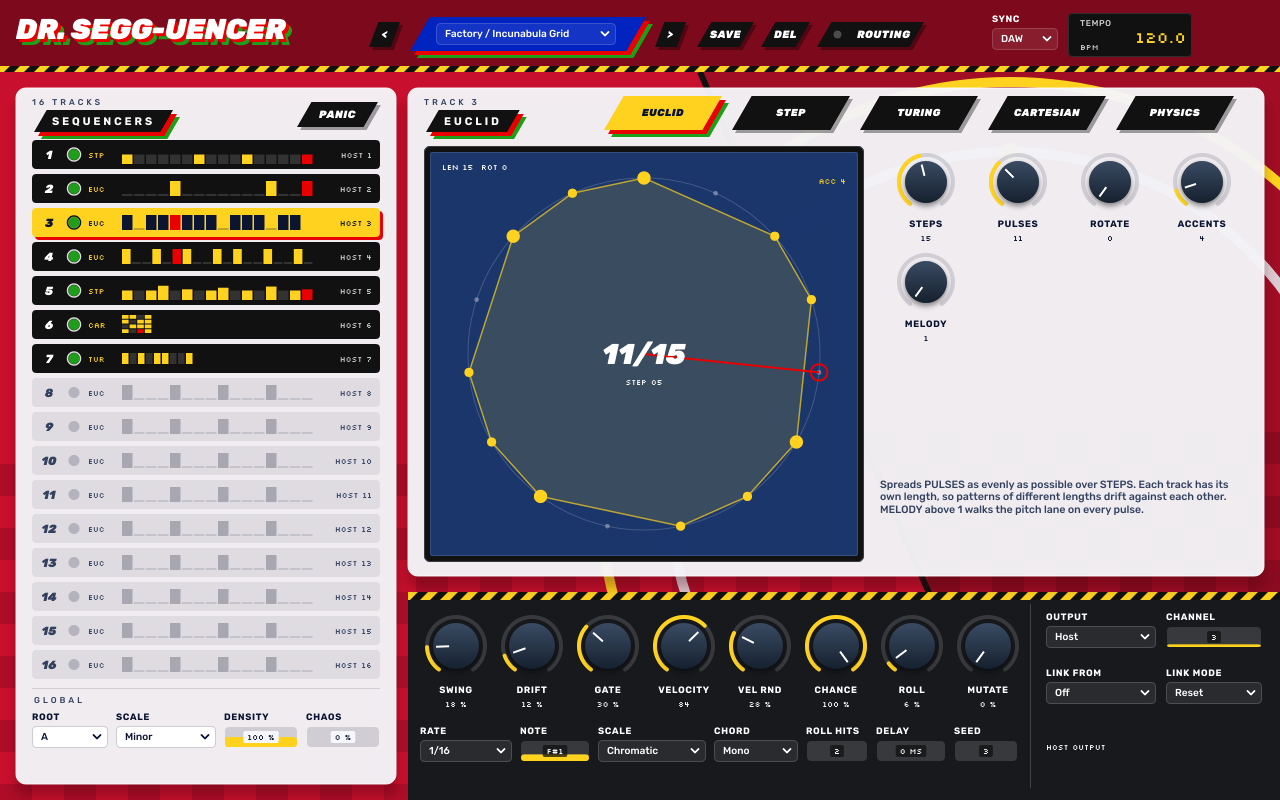
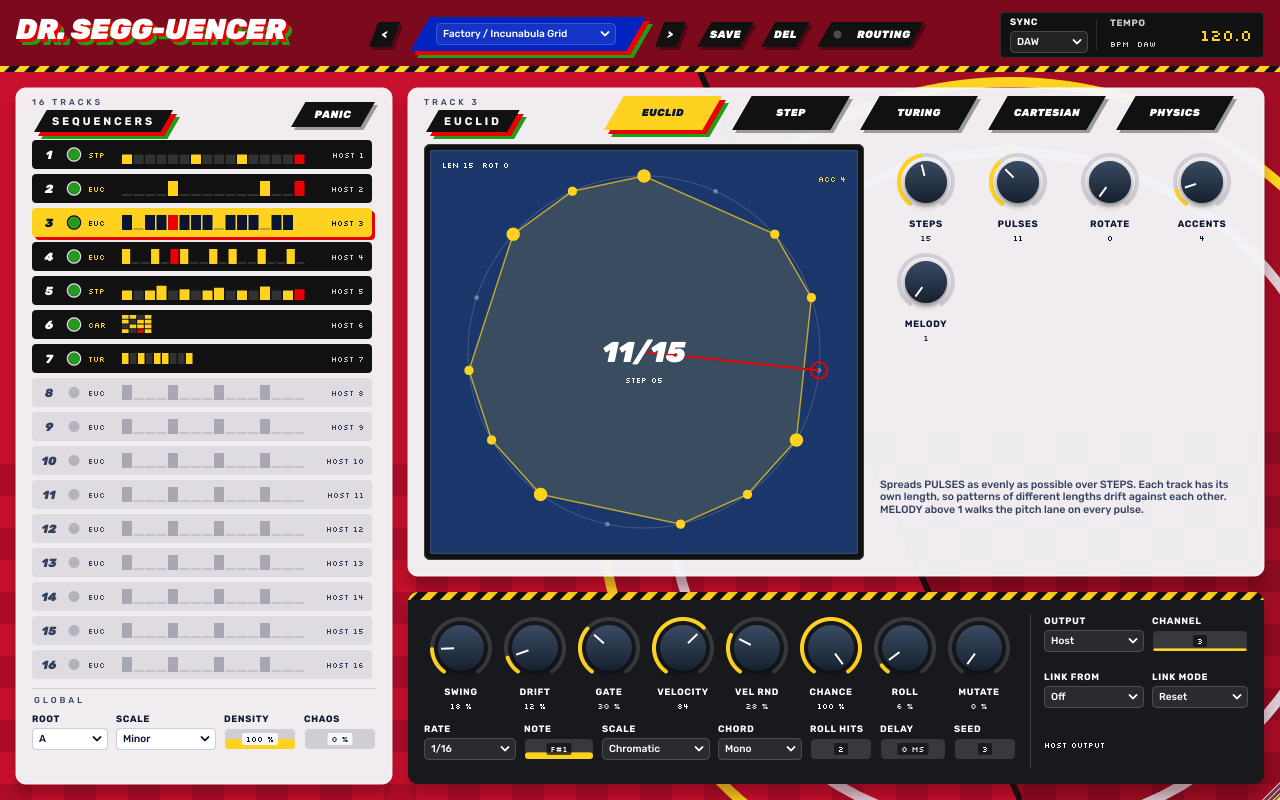
Nuova interfaccia Egg Lab

diff --git a/Source/SeggEditor.h b/Source/SeggEditor.h
@@ -3,10 +3,13 @@
 #include "SeggUI.h"
 #include "Params.h"
 
-class SeggEditor : public juce::AudioProcessorEditor, private juce::Timer
+/** The whole interface, laid out on a fixed 1280 x 800 grid. SeggEditor scales it to the window. */
+class SeggView : public juce::Component, private juce::Timer
 {
 public:
-    explicit SeggEditor (SeggProcessor& p) : AudioProcessorEditor (p), proc (p), list (p), view (p), routing (p)
+    static constexpr int kW = 1280, kH = 800;
+
+    explicit SeggView (SeggProcessor& p) : proc (p), list (p), view (p), routing (p)
     {
         setLookAndFeel (&lnf);
         using K = segg::Control::Kind;
@@ -67,13 +70,14 @@ public:
         routeReset = std::make_unique<segg::Control> (p.state, "greset", "RESET ON PLAY", K::Toggle);
         routeKey = std::make_unique<segg::Control> (p.state, "gkeyin", "MIDI TRANSPOSE", K::Toggle);
         for (auto* ctl : { routeOffset.get(), routeReset.get(), routeKey.get() }) addChildComponent (ctl);
+        for (auto* ctl : { routeReset.get(), routeKey.get() }) ctl->button.getProperties().set ("sgDeck", true);
 
         sendLookAndFeelChange();
-        setSize (1280, 800);
+        setSize (kW, kH);
         selectTrack (0);
         startTimerHz (30);
     }
-    ~SeggEditor() override { setLookAndFeel (nullptr); }
+    ~SeggView() override { setLookAndFeel (nullptr); }
 
     void selectTrack (int t)
     {
@@ -127,37 +131,49 @@ public:
         g.setColour (c::onPlate); g.drawText (name, 16, 9, 340, 40, juce::Justification::centredLeft);
         taggedPlate (g, { 410, 17, 236, 34 }, c::tag);
 
-        auto lcd = juce::Rectangle<float> (1068, 13, 124, 44);
+        // transport console: one black box, every label inside it, flush with the right margin
+        const bool freeRun = proc.state.getRawParameterValue ("gsync")->load() > 0.5f;   // RUN plate sits right of the box
+        auto console = juce::Rectangle<float> (kConsoleX, 12.0f, (freeRun ? kRunX - 12.0f : W - kMargin) - kConsoleX, 46.0f);
         g.setColour (c::plate);
-        g.fillRoundedRectangle (lcd, 4.0f);
+        g.fillRoundedRectangle (console, 4.0f);
         g.setColour (c::onPlate.withAlpha (0.12f));
-        g.drawRoundedRectangle (lcd.reduced (0.5f), 4.0f, 1.0f);
-        g.setColour (c::onPlate.withAlpha (0.8f));
-        g.setFont (medium (10.0f, 0.06f));
-        g.drawText ("TEMPO", 1080, 17, 60, 12, juce::Justification::left);
+        g.drawRoundedRectangle (console.reduced (0.5f), 4.0f, 1.0f);
+        g.fillRect (kConsoleX + 96.0f, 20.0f, 1.0f, 30.0f);
         if (proc.state.getRawParameterValue ("gsync")->load() < 0.5f)
         {   // in DAW sync, the tempo coming from the host
+            g.setColour (c::onPlate.withAlpha (0.8f));
+            g.setFont (bold (11.0f, 0.06f));
+            g.drawText ("TEMPO", (int) kConsoleX + 110, 16, 80, 14, juce::Justification::left);
             g.setFont (pixel (10.0f));
-            g.drawText ("BPM", 1080, 41, 40, 12, juce::Justification::left);
+            g.drawText ("BPM  DAW", (int) kConsoleX + 110, 38, 80, 12, juce::Justification::left);
             g.setColour (c::accent);
             g.setFont (pixel (20.0f));
-            g.drawText (juce::String (proc.uiBpm.load(), 1), 1112, 25, 74, 24, juce::Justification::right);
+            g.drawText (juce::String (proc.uiBpm.load(), 1), (int) (W - kMargin) - 100, 23, 88, 24, juce::Justification::right);
         }
 
         // tracks
-        glassPanel (g, { 16, 88, 380, 696 }, "16 tracks", "Sequencers");
+        // every block sits kMargin from the window edge and kMargin from its neighbours
+        glassPanel (g, { 16, 88, 376, 696 }, "16 tracks", "Sequencers");
         g.setColour (c::ink.withAlpha (0.14f));
-        g.fillRect (32, 688, 348, 1);
+        g.fillRect (32, 688, 344, 1);
         g.setColour (c::inkSoft);
         g.setFont (medium (10.0f, 0.3f));
         g.drawText ("GLOBAL", 34, 694, 120, 12, juce::Justification::left);
 
         // deck with the track's common settings
-        g.setColour (c::modGround);
-        g.fillRect (408, kDeckY, getWidth() - 408, getHeight() - kDeckY);
-        hazard (g, { 408.0f, (float) kDeckY, W - 408.0f, 8.0f });
+        {
+            const auto deck = juce::Rectangle<float> (408.0f, (float) kDeckY, W - 408.0f - kMargin, H - kDeckY - kMargin);
+            juce::Path body;
+            body.addRoundedRectangle (deck, 10.0f);
+            juce::DropShadow (c::panelShadow, 28, { 0, 12 }).drawForPath (g, body);
+            g.setColour (c::modGround);
+            g.fillPath (body);
+            juce::Graphics::ScopedSaveState save (g);
+            g.reduceClipRegion (body);
+            hazard (g, deck.withHeight (8.0f));
+        }
         g.setColour (c::onPlate.withAlpha (0.18f));
-        g.fillRect (1030, kDeckY + 12, 1, getHeight() - kDeckY - 24);
+        g.fillRect (1030, kDeckY + 22, 1, getHeight() - kDeckY - kMargin - 38);
 
         if (routingBtn.getToggleState())
         {
@@ -185,11 +201,11 @@ public:
         if (port == 0) status = "HOST OUTPUT";
         else if (! proc.direct.isSlotLive (port - 1)) { status = "PORT " + juce::String (port) + " NOT ASSIGNED"; g.setColour (segg::c::accent); }
         else status = "PORT " + juce::String (port) + " READY";
-        g.drawText (status, 1046, kDeckY + 148, 216, 14, juce::Justification::left);
+        g.drawText (status, 1044, kDeckY + 146, 204, 14, juce::Justification::left);
         if (! proc.uiPlaying.load())
         {
             g.setColour (segg::c::onPlate.withAlpha (0.7f));
-            g.drawText (proc.state.getRawParameterValue ("gsync")->load() > 0.5f ? "PRESS RUN TO START" : "START THE HOST TRANSPORT", 1046, kDeckY + 168, 216, 14, juce::Justification::left);
+            g.drawText (proc.state.getRawParameterValue ("gsync")->load() > 0.5f ? "PRESS RUN TO START" : "START THE HOST TRANSPORT", 1044, kDeckY + 164, 204, 14, juce::Justification::left);
         }
     }
 
@@ -202,30 +218,31 @@ public:
         saveBtn.setBounds (696, 20, 62, 30);
         delBtn.setBounds (760, 20, 54, 30);
         routingBtn.setBounds (816, 20, 112, 30);
-        at ("gsync", 992, 12, 66, 38);
-        at ("gbpm", 1130, 15, 56, 38);
-        at ("grun", 1198, 20, 66, 30);
-        at ("groot", 32, 710, 76, 40);
-        at ("gscale", 116, 710, 100, 40);
-        at ("gdensity", 224, 710, 74, 38);
-        at ("gchaos", 306, 710, 74, 38);
+        at ("gsync", (int) kConsoleX + 10, 15, 78, 40);
+        at ("gbpm", (int) kConsoleX + 108, 15, 62, 40);
+        at ("grun", (int) kRunX, 20, 87, 32);
+        at ("groot", 32, 712, 76, 40);
+        at ("gscale", 116, 712, 100, 40);
+        at ("gdensity", 224, 712, 72, 38);
+        at ("gchaos", 304, 712, 72, 38);
 
-        list.setBounds (32, 140, 352, 16 * segg::TrackList::kRowH);
-        panicBtn.setBounds (296, 100, 86, 30);
-        view.setBounds (424, 146, 440, 416);
-        routing.setBounds (424, 98, 824, 470);
+        list.setBounds (32, 140, 344, 16 * segg::TrackList::kRowH);
+        panicBtn.setBounds (290, 100, 89, 30);
+        view.setBounds (424, 144, 440, 416);
+        routing.setBounds (424, 98, 824, 462);
         for (int t = 0; t < segg::kNumTypes; ++t) tabs[t]->setBounds (604 + t * 128, 96, 126, 42);
 
-        routeOffset->setBounds (1046, 612, 214, 38);
-        routeReset->setBounds (1046, 662, 214, 32);
-        routeKey->setBounds (1046, 702, 214, 32);
+        routeOffset->setBounds (1044, kDeckY + 22, 204, 38);
+        routeReset->setBounds (1044, kDeckY + 72, 207, 32);
+        routeKey->setBounds (1044, kDeckY + 112, 207, 32);
         layoutTrackControls();
     }
 
     segg::Control* getTrackControl (segg::P p) { for (auto& e : trackControls) if (e.param == p) return e.control; return nullptr; }
 
 private:
-    static constexpr int kDeckY = 592, kHeaderH = 72;
+    static constexpr int kDeckY = 592, kHeaderH = 72, kMargin = 16;
+    static constexpr float kConsoleX = 1000.0f, kRunX = 1180.0f;
 
     struct Entry { segg::P param; segg::Control* control; int group; };   // group: 0 = common, 1 + type = that sequencer
 
@@ -275,14 +292,14 @@ private:
     {
         using namespace segg;
         auto place = [this] (P p, int x, int y, int w, int h) { if (auto* c = getTrackControl (p)) c->setBounds (x, y, w, h); };
-        const int row1 = kDeckY + 18, row2 = kDeckY + 132;
+        const int row1 = kDeckY + 20, row2 = kDeckY + 130, row3 = kDeckY + 22;
         const P knobs[8] = { pSwing, pDrift, pGate, pVel, pVrand, pProb, pRoll, pMutate };
-        for (int i = 0; i < 8; ++i) place (knobs[i], 418 + i * 76, row1, 76, 100);
-        place (pRate, 420, row2, 92, 40);    place (pNote, 520, row2, 70, 38);   place (pScale, 598, row2, 108, 40);
-        place (pChord, 714, row2, 84, 40);   place (pRolln, 806, row2, 62, 38);  place (pDelay, 876, row2, 70, 38);
-        place (pSeed, 954, row2, 64, 38);
-        place (pPort, 1046, row1, 110, 40);  place (pCh, 1166, row1, 96, 38);
-        place (pLsrc, 1046, row1 + 56, 110, 40); place (pLmode, 1166, row1 + 56, 96, 40);
+        for (int i = 0; i < 8; ++i) place (knobs[i], 424 + i * 74, row1, 74, 100);
+        place (pRate, 424, row2, 92, 40);    place (pNote, 524, row2, 70, 38);   place (pScale, 602, row2, 108, 40);
+        place (pChord, 718, row2, 84, 40);   place (pRolln, 810, row2, 62, 38);  place (pDelay, 880, row2, 66, 38);
+        place (pSeed, 954, row2, 62, 38);
+        place (pPort, 1044, row3, 100, 40);  place (pCh, 1152, row3, 96, 38);
+        place (pLsrc, 1044, row3 + 56, 100, 40); place (pLmode, 1152, row3 + 56, 96, 40);
 
         // sequencer controls beside the well: knobs on a 4-column grid, then menus and switches two by two
         auto isKnob = [this] (P p) {
@@ -348,7 +365,7 @@ private:
             updateVisibility();
             if (routing.isVisible()) routing.repaint();
             repaint (1040, kDeckY + 140, 240, 50);
-            if (const auto bpm = proc.uiBpm.load(); bpm != bpmShown) { bpmShown = bpm; repaint (1064, 8, 134, 54); }
+            if (const auto bpm = proc.uiBpm.load(); bpm != bpmShown) { bpmShown = bpm; repaint ((int) kConsoleX, 8, 1280 - (int) kConsoleX, 54); }
             if (presetBox.getSelectedItemIndex() != proc.presets.getCurrent()) refreshPresets();
         }
     }
@@ -375,5 +392,46 @@ private:
     int track = 0, slowTick = 0, lastType = -1;
     bool freeShown = false;
     float bpmShown = 0.0f;
+    JUCE_DECLARE_NON_COPYABLE_WITH_LEAK_DETECTOR (SeggView)
+};
+
+/** Resizable window with the proportions locked: the view is drawn as vectors at the window's own scale,
+    so it stays sharp at any size. The size is saved with the session. */
+class SeggEditor : public juce::AudioProcessorEditor
+{
+public:
+    static constexpr int kW = SeggView::kW, kH = SeggView::kH;
+    static constexpr double kMinScale = 0.6, kMaxScale = 2.0;
+
+    explicit SeggEditor (SeggProcessor& p) : AudioProcessorEditor (p), proc (p), ui (p)
+    {
+        addAndMakeVisible (ui);
+        ui.setBounds (0, 0, kW, kH);
+        setResizable (true, true);
+        setResizeLimits (juce::roundToInt (kW * kMinScale), juce::roundToInt (kH * kMinScale),
+                         juce::roundToInt (kW * kMaxScale), juce::roundToInt (kH * kMaxScale));
+        getConstrainer()->setFixedAspectRatio ((double) kW / (double) kH);
+        const double s = juce::jlimit (kMinScale, kMaxScale, (double) p.uiScale.load());
+        setSize (juce::roundToInt (kW * s), juce::roundToInt (kH * s));
+    }
+
+    void resized() override
+    {
+        const float s = (float) getWidth() / (float) kW;
+        ui.setTransform (juce::AffineTransform::scale (s));
+        proc.uiScale = s;
+    }
+
+    void paint (juce::Graphics& g) override { g.fillAll (segg::c::ground); }
+
+    // used by the headless tests
+    void selectTrack (int t)          { ui.selectTrack (t); }
+    void showRouting (bool on)        { ui.showRouting (on); }
+    void setLaneForSnapshot (int l)   { ui.setLaneForSnapshot (l); }
+    void tickForSnapshot()            { ui.tickForSnapshot(); }
+
+private:
+    SeggProcessor& proc;
+    SeggView ui;
     JUCE_DECLARE_NON_COPYABLE_WITH_LEAK_DETECTOR (SeggEditor)
 };

diff --git a/Tests/TestMain.cpp b/Tests/TestMain.cpp
@@ -1,6 +1,7 @@
 // DR. SEGG-UENCER headless tests: drive the processor with a fake host transport and check the MIDI it plays.
 // Run:  DrSeggUencerTests                        -> unit tests (exit code 1 on failure)
-//       DrSeggUencerTests --snap file track [page] -> render the editor to a PNG, track 1-16, page 0 = tracks, 1 = routing
+//       DrSeggUencerTests --snap file track [page] [preset] [scale] -> render the editor to a PNG, track 1-16,
+//                                     page 0 = tracks, 1 = routing, 10+ = step lane; scale = window size (1 = 1280 x 800)
 #include <juce_audio_processors/juce_audio_processors.h>
 #include "SeggProcessor.h"
 #include "SeggEditor.h"
@@ -695,14 +696,15 @@ static void testSpeed()
     CHECK (r.p.engine.numPending() < Engine::kPoolSize, "event pool never fills up");
 }
 
-static void runSnap (const juce::String& path, int track, int page, int preset);
+static void runSnap (const juce::String& path, int track, int page, int preset, float scale);
 
 int main (int argc, char** argv)
 {
     if (argc > 1 && juce::String (argv[1]) == "--snap")
     {
         runSnap (argc > 2 ? juce::String (argv[2]) : juce::String ("snap_segg.png"), argc > 3 ? juce::String (argv[3]).getIntValue() : 1,
-                 argc > 4 ? juce::String (argv[4]).getIntValue() : 0, argc > 5 ? juce::String (argv[5]).getIntValue() : 2);
+                 argc > 4 ? juce::String (argv[4]).getIntValue() : 0, argc > 5 ? juce::String (argv[5]).getIntValue() : 2,
+                 argc > 6 ? juce::String (argv[6]).getFloatValue() : 1.0f);
         return 0;
     }
     juce::ScopedJuceInitialiser_GUI init;
@@ -726,7 +728,7 @@ int main (int argc, char** argv)
     return failures == 0 ? 0 : 1;
 }
 
-static void runSnap (const juce::String& path, int track, int page, int preset)
+static void runSnap (const juce::String& path, int track, int page, int preset, float scale)
 {
     juce::ScopedJuceInitialiser_GUI init;
     {
@@ -741,7 +743,7 @@ static void runSnap (const juce::String& path, int track, int page, int preset)
             if (page >= 10) oe->setLaneForSnapshot (page - 10);
             oe->tickForSnapshot();
         }
-        ed->setBounds (0, 0, 1280, 800);
+        ed->setSize (juce::roundToInt (1280 * scale), juce::roundToInt (800 * scale));
         auto img = ed->createComponentSnapshot (ed->getLocalBounds(), true, 1.0f);
         juce::File f (juce::File::getCurrentWorkingDirectory().getChildFile (path));
         f.deleteFile();

diff --git a/Source/SeggUI.h b/Source/SeggUI.h
@@ -61,7 +61,9 @@ inline juce::Font face (const juce::Typeface::Ptr& t, float size, float tracking
 inline juce::Font medium (float size, float tracking = 0.0f) { return face (Fonts::get().medium, size, tracking); }
 inline juce::Font bold (float size, float tracking = 0.0f)   { return face (Fonts::get().bold, size, tracking); }
 inline juce::Font black (float size, float tracking = 0.0f)  { return face (Fonts::get().black, size, tracking); }
-inline juce::Font pixel (float size)                         { return face (Fonts::get().pixel, size); }
+// Silkscreen draws on a grid of 1/8 em and JUCE sizes a font by ascent + descent (1.28 em): x 1.024 puts every
+// font pixel on exactly one (10) or two (20) screen pixels, so the readouts stay sharp instead of smeared.
+inline juce::Font pixel (float size)                         { return face (Fonts::get().pixel, size * 1.024f); }
 
 /** A rectangle skewed by -30 degrees: the plate every button, tab and tag is drawn on. */
 inline juce::Path platePath (juce::Rectangle<float> r)
@@ -267,7 +269,8 @@ public:
         auto p = platePath (r);
         g.setColour (juce::Colour (0x59000000));
         g.fillPath (p, juce::AffineTransform::translation (3, 3));
-        juce::Colour fill = c::plate;
+        // on the black deck an off plate would vanish: lift it a step
+        juce::Colour fill = b.getProperties()["sgDeck"] ? juce::Colour (0xff2c3038) : c::plate;
         if (on) fill = rec ? c::signal : c::accent;
         else if (down) fill = c::tag.darker (0.3f);
         else if (over) fill = c::tag;
@@ -297,6 +300,7 @@ public:
     {
         if (box.getWidth() < 62) { label.setBounds (1, 1, box.getWidth() - 2, box.getHeight() - 2); label.setJustificationType (juce::Justification::centred); }
         else { label.setBounds (4, 1, box.getWidth() - 22, box.getHeight() - 2); label.setJustificationType (juce::Justification::centredLeft); }
+        label.setBorderSize ({ 0, 3, 0, 2 });
         label.setFont (getComboBoxFont (box));
         label.setColour (juce::Label::textColourId, isOnDark (box) ? c::onPlate : c::ink);
         label.setMinimumHorizontalScale (0.7f);

diff --git a/Source/SeggProcessor.cpp b/Source/SeggProcessor.cpp
@@ -307,6 +307,7 @@ void SeggProcessor::getStateInformation (juce::MemoryBlock& dest)
     {
         xml->addChildElement (portsToTree().createXml().release());
         xml->setAttribute ("presetIndex", presets.getCurrent());
+        xml->setAttribute ("uiScale", (double) uiScale.load());
         copyXmlToBinary (*xml, dest);
     }
 }
@@ -319,6 +320,7 @@ void SeggProcessor::setStateInformation (const void* data, int size)
         {
             if (auto* ports = xml->getChildByName ("PORTS")) portsFromTree (juce::ValueTree::fromXml (*ports));
             presets.markCurrent (xml->getIntAttribute ("presetIndex", 0));
+            uiScale = (float) juce::jlimit (0.6, 2.0, xml->getDoubleAttribute ("uiScale", 1.0));
         }
     }
 }

diff --git a/Source/SeggProcessor.h b/Source/SeggProcessor.h
@@ -70,6 +70,7 @@ public:
 
     std::atomic<bool> uiPlaying { false };
     std::atomic<float> uiBpm { 120.0f };
+    std::atomic<float> uiScale { 1.0f };   // editor size, saved with the session
 
     static juce::AudioProcessorValueTreeState::ParameterLayout createLayout();
 

diff --git a/CHANGELOG.md b/CHANGELOG.md
@@ -1,5 +1,14 @@
 # Changelog
 
+## [0.1.2] - 2026-11-03
+- Finestra ridimensionabile (dal 60 al 200 %) con le proporzioni bloccate; la dimensione si salva con il progetto.
+- Grafica più nitida: a ogni dimensione l'interfaccia viene ridisegnata in vettoriale, e il font pixel cade sulla sua griglia.
+- Margini uguali ovunque: 16 px dai bordi e tra i pannelli; il deck in basso è un pannello come gli altri.
+- SYNC e TEMPO in un'unica console nell'header; RUN accanto, in modalità FREE.
+- Testo dei menu a tendina (SYNC, OUTPUT ...) sempre dentro il riquadro.
+- Interruttori spenti più visibili sul deck scuro.
+- Test: `--snap` accetta la scala della finestra come ultimo argomento.
+
 ## [0.1.1] - 2026-11-03
 Nuova interfaccia **Egg Lab**, sorella di quella di SONIC GRAIN: stessi caratteri, piastre, manopole e spaziature, cambia solo lo sfondo.
 - Fondo rosso con fascia diagonale, scacchiera e anelli giallo e cromato; header e deck con bordo a strisce di pericolo; deck antracite.

diff --git a/README.md b/README.md
@@ -62,6 +62,8 @@ In alternativa alla porta virtuale funziona anche il bus IAC di macOS. Le note c
 
 ![Pagina ROUTING con 16 porte](docs/screenshot-routing.png)
 
+La finestra si ridimensiona trascinando l'angolo in basso a destra, con le proporzioni bloccate. Se su Windows l'interfaccia appare sfocata, in Live fai clic destro sulla barra del titolo del plugin e disattiva **Auto-Scale Plugin Window**: Live smette di ingrandire la finestra come un'immagine e il plugin si ridisegna alla risoluzione dello schermo.
+
 Con Sync su DAW il sequencer parte con il trasporto di Live. Con FREE usa il suo BPM e il tasto RUN.
 
 ## Preset
